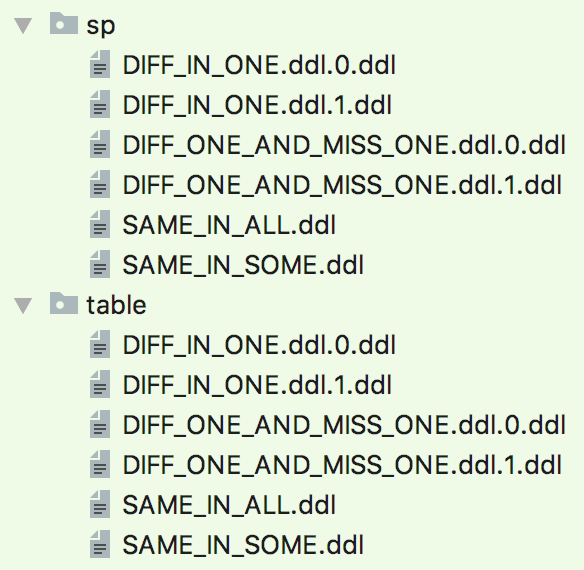
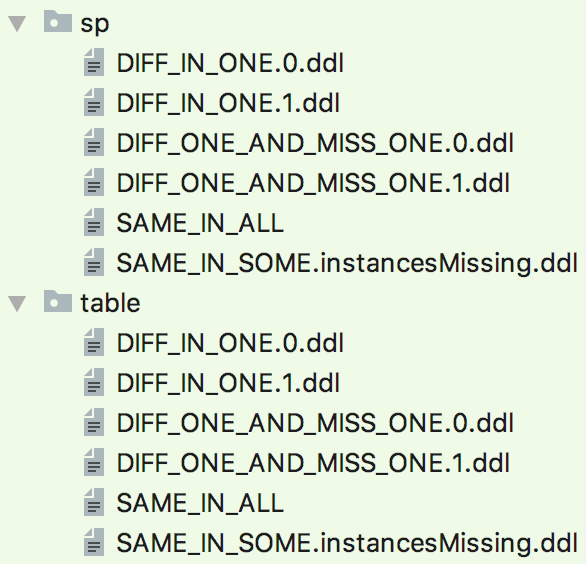
Making merge more concise

Changed region(s): [[0.0, 0.5124, 0.9863, 0.9947], [0.0, 0.0, 0.9863, 0.5124]]

diff --git a/obevo-db/src/main/java/com/gs/obevo/db/apps/reveng/DbFileMerger.java b/obevo-db/src/main/java/com/gs/obevo/db/apps/reveng/DbFileMerger.java
@@ -241,7 +241,7 @@ public class DbFileMerger {
                     if (instancesMissing) {
                         outputFile = new File(fileComparisonFileRoot, objectName + ".instancesMissing." + fileComparisonPair.getTwo().getName().getExtension());
                     } else {
-                        outputFile = new File(fileComparisonFileRoot, fileComparison.getName());
+                        outputFile = new File(fileComparisonFileRoot, objectName + "." + fileComparisonPair.getTwo().getName().getExtension());
                     }
                 } else {
                     outputFile = new File(fileComparisonFileRoot, objectName + "." + (index++) + "." + fileComparisonPair.getTwo().getName().getExtension());

diff --git a/obevo-site/src/site/markdown/db-merge-tool.md b/obevo-site/src/site/markdown/db-merge-tool.md
@@ -81,7 +81,7 @@ instance3.inputDir=h:\instance3dboutput
 ### Example
 To walk through an example: let's say that for our example app, we have 3 instances: db1, db2, db3. The resulting directories are as follows:
 
-<img src="images/merge-pre-view.png" alt="Pre-Merge View" width="200px"/>
+<img src="images/merge-pre-view.png" alt="Pre-Merge View" width="300px"/>
 
 Let's assume all these folders are in H:\mydboutput
 
@@ -109,10 +109,31 @@ After running that command, the output is as follows.
 
 These fall into 3 flavors:
 
-1. Objects that exist in all the instances that we had defined and are identical across those are stored directly under the &quot;view&quot; folder
-2. The folders marked as &quot;only-...&quot; are cases where the objects contained within are identical for those instances (but missing in the others)
- * For example, the objects in only-cd-eq are in the cd and eq instances, but not the FX instances
-3. The folders without &quot;only-&quot; are cases where the objects contained within are different across instances.
+1) Objects that are identical and exist in all instances
+
+* Named as &lt;objectName&gt;.ddl (same file name as before)
+* Example: SAME_IN_ALL.ddl
+
+2) Objects that are not present in all instances, but identical in those present
+
+* Named as &lt;objectName&gt;.instancesMissing.ddl
+* Example: SAME_IN_SOME.instancesMissing.ddl
+* Metadata Section: Specifies the instances that contain this object, and comments on which instances are missing
+
+```
+//// METADATA includeEnvs="db1*,db3*" comment="missingInInstances_db2"
+```
+
+3) Objects with differences in some instances
+
+* Named as &lt;objectName&gt;.&lt;number&gt;.ddl
+* Example: DIFF_IN_ONE.0.ddl, DIFF_IN_ONE.1.ddl
+* Metadata Section: Specifies the instances that contain this version of the object
+
+```
+//// METADATA includeEnvs="db2*"
+```
+
 
 From here, the assumption is that when you define your environment names (in the next step when you create
 system-config.xml), you should name the environment for that instance with that instance prefix. e.g.
